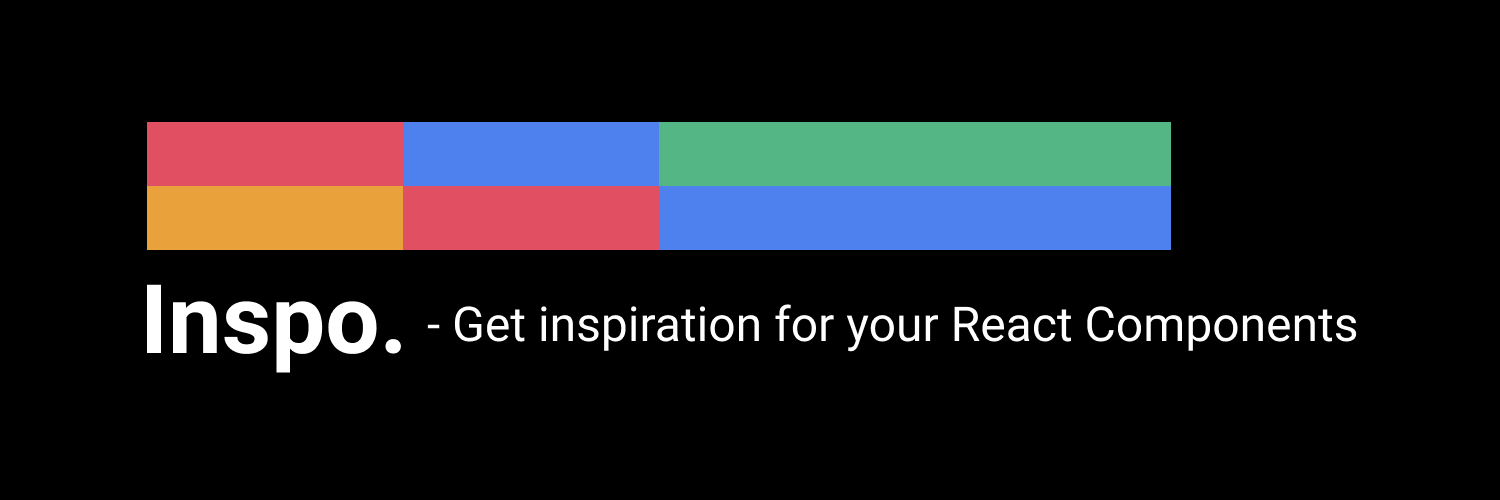
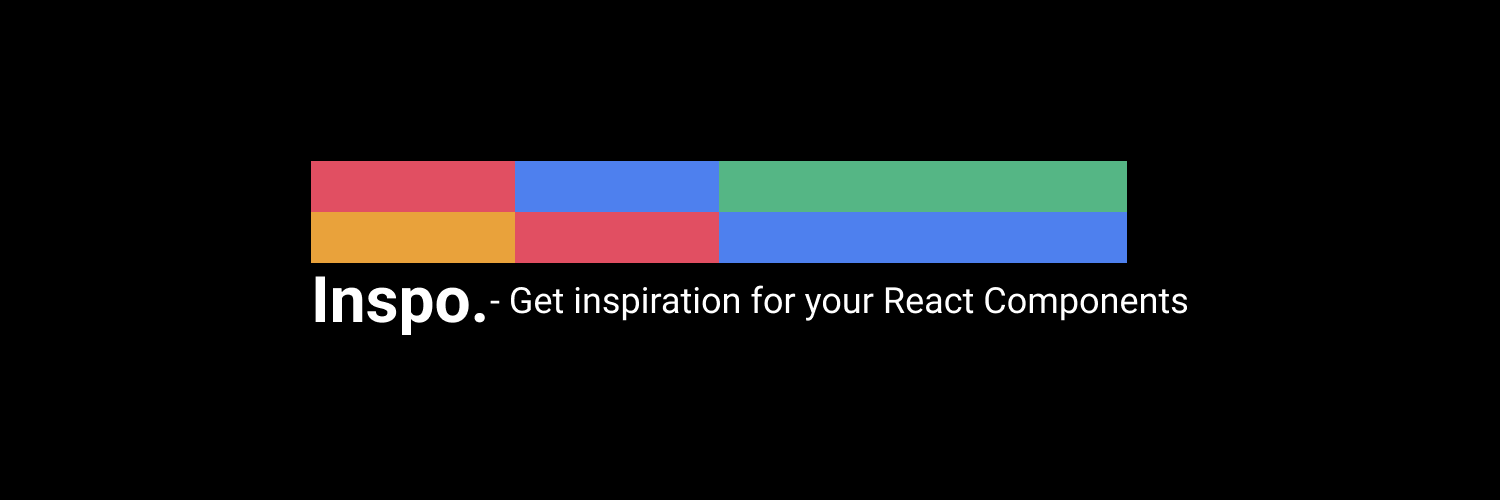
More refactoring, fixing

Changed region(s): [[0.092, 0.24, 0.7973, 0.54], [0.092, 0.57, 0.92, 0.75]]

diff --git a/components/Container/Container.tsx b/components/Container/Container.tsx
@@ -19,7 +19,7 @@ export default function Container(props) {
     description: 'Creative inspiration.',
     image: 'https://inspo.cretu.dev/static/images/Header.png',
     type: 'website',
-    ...customMeta,
+    ...customMeta
   };
 
   useEffect(() => {
@@ -34,7 +34,7 @@ export default function Container(props) {
   });
 
   return (
-    <div className='bg-white dark:bg-black min-h-screen'>
+    <div className='min-h-screen bg-white dark:bg-black'>
       <Head>
         <title>{meta.title}</title>
         <meta name='robots' content='follow, index' />
@@ -62,26 +62,26 @@ export default function Container(props) {
         )}
       </Head>
 
-      <div className='sticky-nav absolute grid w-80 md:w-112 grid-cols-3'>
+      <div className='absolute grid grid-cols-3 sticky-nav w-80 md:w-112'>
         <div>
-          <div className='w-48 md:w-96 bg-red-500 h-7'></div>
-          <div className='w-48 md:w-96 bg-yellow-500 h-6 md:h-7'></div>
+          <div className='w-48 bg-red-500 md:w-96 h-7'></div>
+          <div className='w-48 h-6 bg-yellow-500 md:w-96 md:h-7'></div>
         </div>
 
         <div>
-          <div className='w-48 md:w-96 bg-blue-500 h-7'></div>
-          <div className='w-48 md:w-96 bg-red-500 h-6 md:h-7'></div>
+          <div className='w-48 bg-blue-500 md:w-96 h-7'></div>
+          <div className='w-48 h-6 bg-red-500 md:w-96 md:h-7'></div>
         </div>
 
         <div>
-          <div className='w-48 md:w-96 bg-green-500 h-7'></div>
-          <div className='w-48 md:w-96 bg-blue-500 h-6 md:h-7'></div>
+          <div className='w-48 bg-green-500 md:w-96 h-7'></div>
+          <div className='w-48 h-6 bg-blue-500 md:w-96 md:h-7'></div>
         </div>
       </div>
-      <nav className='flex items-center sticky-nav justify-between w-full py-3 px-4 sm:px-8 md:px-16 lg:px-40 mx-auto bg-opacity-50 text-gray-900 dark:text-gray-100'>
-        <div className='flex space-x-2 text-base items-center'>
+      <nav className='flex items-center justify-between w-full px-4 py-3 mx-auto text-gray-900 bg-opacity-50 sticky-nav sm:px-8 md:px-16 lg:px-40 dark:text-gray-100'>
+        <div className='flex items-center space-x-2 text-base'>
           <Link href='/'>
-            <a className='text-lg md:text-2xl text-center font-bold tracking-tight'>
+            <a className='text-lg font-bold tracking-tight text-center md:text-2xl'>
               Inspo.
             </a>
           </Link>
@@ -94,20 +94,18 @@ export default function Container(props) {
           href='https://github.com/cristicretu/inspo'
           target='_blank'
           rel='noreferrer'
-          aria-label='Github'
-        >
+          aria-label='Github'>
           <svg
             xmlns='http://www.w3.org/2000/svg'
             width='18'
             height='18'
             viewBox='0 0 24 24'
-            className='fill-current dark:text-white dark:text-opacity-40 dark:hover:text-opacity-100 text-gray-900 text-opacity-40 hover:text-opacity-100 transition-all duration-500 '
-          >
+            className='text-gray-900 transition-all duration-500 fill-current dark:text-white dark:text-opacity-40 dark:hover:text-opacity-100 text-opacity-40 hover:text-opacity-100 '>
             <path d='M12 0c-6.626 0-12 5.373-12 12 0 5.302 3.438 9.8 8.207 11.387.599.111.793-.261.793-.577v-2.234c-3.338.726-4.033-1.416-4.033-1.416-.546-1.387-1.333-1.756-1.333-1.756-1.089-.745.083-.729.083-.729 1.205.084 1.839 1.237 1.839 1.237 1.07 1.834 2.807 1.304 3.492.997.107-.775.418-1.305.762-1.604-2.665-.305-5.467-1.334-5.467-5.931 0-1.311.469-2.381 1.236-3.221-.124-.303-.535-1.524.117-3.176 0 0 1.008-.322 3.301 1.23.957-.266 1.983-.399 3.003-.404 1.02.005 2.047.138 3.006.404 2.291-1.552 3.297-1.23 3.297-1.23.653 1.653.242 2.874.118 3.176.77.84 1.235 1.911 1.235 3.221 0 4.609-2.807 5.624-5.479 5.921.43.372.823 1.102.823 2.222v3.293c0 .319.192.694.801.576 4.765-1.589 8.199-6.086 8.199-11.386 0-6.627-5.373-12-12-12z' />
           </svg>
         </a>
       </nav>
-      <main id='skip' className='flex flex-col  justify-center px-2'>
+      <main id='skip' className='flex flex-col justify-center px-2'>
         <div className='mb-4 text-gray-800 dark:text-gray-200'>{children}</div>
         <Footer />
       </main>

diff --git a/components/NFTCard/NFTCard.tsx b/components/NFTCard/NFTCard.tsx
@@ -16,30 +16,33 @@ export default function NFTCard({
   image,
   pfp,
   timeLeft,
-  price,
+  price
 }: NFTCardProps): JSX.Element {
   return (
-    <div className='bg-gray-200 dark:bg-gray-900 p-6 rounded-xl flex flex-col space-y-6'>
-      <div className='group relative'>
-        <Image
-          src={image}
-          alt='NFT'
-          width={325}
-          height={325}
-          className='rounded-lg'
-        />
-        <button className='flex space-x-2 items-center invisible group-hover:visible transition duration-200 transform absolute top-1/2 left-1/2 px-4 py-2 fifty bg-gray-900 bg-opacity-70 cursor-pointer rounded-lg'>
+    <div className='flex flex-col p-6 space-y-6 bg-gray-200 dark:bg-gray-900 rounded-xl'>
+      <div className='relative group'>
+        <div className='h-96'>
+          <Image
+            src={image}
+            alt='NFT'
+            layout='fill'
+            className='rounded-lg'
+            objectFit='cover'
+          />
+        </div>
+        <button className='absolute flex items-center invisible px-4 py-2 space-x-2 transition duration-200 transform bg-gray-900 rounded-lg cursor-pointer group-hover:visible top-1/2 left-1/2 fifty bg-opacity-70'>
           {/* .fifty {
             transform: translate(-50%, -50%);
             -ms-transform: translate(-50%, -50%);
           } */}
+
+          {/* Star SVG */}
           <svg
             width='18'
             height='18'
             viewBox='0 0 18 18'
             fill='none'
-            xmlns='http://www.w3.org/2000/svg'
-          >
+            xmlns='http://www.w3.org/2000/svg'>
             <path
               d='M9 0L11.4308 6.56918L18 9L11.4308 11.4308L9 18L6.56918 11.4308L0 9L6.56918 6.56918L9 0Z'
               fill='#DAC50B'
@@ -62,8 +65,8 @@ export default function NFTCard({
           <p className='text-xs text-gray-500'>@{username}</p>
         </div>
       </div>
-      <div className='px-4 py-4 rounded-lg dark:bg-black bg-white flex justify-between items-center'>
-        <div className='flex space-x-2 items-center'>
+      <div className='flex items-center justify-between px-4 py-4 bg-white rounded-lg dark:bg-black'>
+        <div className='flex items-center space-x-2'>
           <svg
             xmlns='http://www.w3.org/2000/svg'
             xmlnsXlink='http://www.w3.org/1999/xlink'
@@ -72,8 +75,7 @@ export default function NFTCard({
             width='1em'
             height='1em'
             preserveAspectRatio='xMidYMid meet'
-            viewBox='0 0 24 24'
-          >
+            viewBox='0 0 24 24'>
             <path
               d='M12 1.75l-6.25 10.5L12 16l6.25-3.75L12 1.75M5.75 13.5L12 22.25l6.25-8.75L12 17.25L5.75 13.5z'
               fill='currentColor'

diff --git a/pages/index.tsx b/pages/index.tsx
@@ -7,33 +7,33 @@ export default function Home() {
     <Container>
       <div className='flex flex-col items-center justify-center py-2'>
         <div className='flex flex-col items-center'>
-          <div className='grid gap-4 grid-cols-1 md:grid-cols-2 xl:grid-cols-3 auto-rows-auto'>
+          <div className='grid grid-cols-1 gap-4 md:grid-cols-2 xl:grid-cols-3 auto-rows-auto'>
             <div className='flex flex-col space-y-4'>
               <NFTCard
                 username='cristicretu'
                 title='Origin and Evolution#4471'
-                image='/static/images/NFTCard/NFT.jpeg'
-                pfp='/static/images/NFTCard/pfp.jpg'
+                image='/static/images/NFT.png'
+                pfp='/static/images/Pfp.png'
                 timeLeft='4d 16h 32m 10s'
                 price={0.74}
               />
-              <div className='w-96 bg-blue-500 h-96 rounded-lg'></div>
-              <div className='w-96 bg-green-500 h-96 rounded-lg'></div>
+              <div className='bg-blue-500 rounded-lg w-96 h-96'></div>
+              <div className='bg-green-500 rounded-lg w-96 h-96'></div>
             </div>
 
             <div className='flex flex-col space-y-4'>
               <Account
                 description='Designer and Developer'
                 username='cristicretu'
-                pfp='/static/images/Account/pfp.jpg'
+                pfp='/static/images/Pfp.png'
               />
-              <div className='w-96 bg-yellow-500 h-96 rounded-lg'></div>
-              <div className='w-96 bg-red-500 h-96 rounded-lg'></div>
+              <div className='bg-yellow-500 rounded-lg w-96 h-96'></div>
+              <div className='bg-red-500 rounded-lg w-96 h-96'></div>
             </div>
 
             <div className='flex flex-col space-y-4'>
-              <div className='w-96 bg-green-500 h-96 rounded-lg'></div>
-              <div className='w-96 bg-yellow-500 h-96 rounded-lg'></div>
+              <div className='bg-green-500 rounded-lg w-96 h-96'></div>
+              <div className='bg-yellow-500 rounded-lg w-96 h-96'></div>
             </div>
           </div>
         </div>

diff --git a/pages/_document.tsx b/pages/_document.tsx
@@ -1,4 +1,4 @@
-import Document, { Head, Html, Main, NextScript } from "next/document";
+import Document, { Head, Html, Main, NextScript } from 'next/document';
 
 class MyDocument extends Document {
   static async getInitialProps(ctx) {
@@ -8,33 +8,33 @@ class MyDocument extends Document {
 
   render() {
     return (
-      <Html lang="en">
+      <Html lang='en'>
         <Head>
           <link
-            rel="preload"
-            href="/fonts/inter-var-latin.woff2"
-            as="font"
-            type="font/woff2"
-            crossOrigin="anonymous"
+            rel='preload'
+            href='/fonts/inter-var-latin.woff2'
+            as='font'
+            type='font/woff2'
+            crossOrigin='anonymous'
           />
-          {/* <link href="/static/favicons/site.webmanifest" rel="manifest" /> */}
-          <link href="/static/favicons/favicon.ico" rel="shortcut icon" />
-          {/* <meta
-            content="/static/favicons/browserconfig.xml"
-            name="msapplication-config"
-          /> */}
+          <link href='/static/favicons/site.webmanifest' rel='manifest' />
+          <link href='/static/favicons/favicon.ico' rel='shortcut icon' />
           <meta
-            name="theme-color"
-            content="#ffffff"
-            media="(prefers-color-scheme: light)"
+            content='/static/favicons/browserconfig.xml'
+            name='msapplication-config'
           />
           <meta
-            name="theme-color"
-            content="#171717"
-            media="(prefers-color-scheme: dark)"
+            name='theme-color'
+            content='#ffffff'
+            media='(prefers-color-scheme: light)'
+          />
+          <meta
+            name='theme-color'
+            content='#000000'
+            media='(prefers-color-scheme: dark)'
           />
         </Head>
-        <body className="bg-white dark:bg-gray-900">
+        <body className='bg-white dark:bg-black'>
           <Main />
           <NextScript />
         </body>

diff --git a/pages/404.tsx b/pages/404.tsx
@@ -1,22 +1,22 @@
+import Container from '@components/Container';
 import Link from 'next/link';
-import Container from '../components/Container';
 
 export default function NotFound() {
   return (
     <Container title='404 - Not found'>
-      <div className='my-2 sm:my-4 md:my-8 flex flex-col justify-center items-start max-w-2xl mx-auto mb-16'>
-        <h1 className='font-bold text-3xl md:text-5xl tracking-tight mb-4 text-black dark:text-white'>
+      <div className='flex flex-col items-start justify-center max-w-2xl mx-auto my-2 mb-16 sm:my-4 md:my-8'>
+        <h1 className='mb-4 text-3xl font-bold tracking-tight text-black md:text-5xl dark:text-white'>
           404 - Not Found
         </h1>
         <div className='flex flex-col space-y-12'>
-          <p className=' text-gray-600 dark:text-gray-400'>
+          <p className='text-gray-600 dark:text-gray-400'>
             Oops! Seems that you&lsquo;ve entered
             <a className='italic'> the dark side</a>. You found something that
             used to exist, or you typed something wrong. Try that URL again, or
             👇
           </p>
           <Link href='/'>
-            <a className='mx-auto px-12 py-4 font-bold text-lg rounded-md text-gray-900 bg-gray-100 dark:text-gray-100 dark:bg-gray-800'>
+            <a className='px-12 py-4 mx-auto text-lg font-bold text-gray-900 bg-gray-100 rounded-md dark:text-gray-100 dark:bg-gray-800'>
               Return home
             </a>
           </Link>

diff --git a/tailwind.config.js b/tailwind.config.js
@@ -1,15 +1,16 @@
-const { fontFamily } = require("tailwindcss/defaultTheme");
-const colors = require("tailwindcss/colors");
+/* eslint-disable @typescript-eslint/no-var-requires */
+const { fontFamily } = require('tailwindcss/defaultTheme');
+const colors = require('tailwindcss/colors');
 
 module.exports = {
-  mode: "jit",
-  purge: ["./pages/**/*.{js,ts,jsx,tsx}", "./components/**/*.{js,ts,jsx,tsx}"],
-  darkMode: "class", // or 'media' or 'class'
+  mode: 'jit',
+  purge: ['./pages/**/*.{js,ts,jsx,tsx}', './components/**/*.{js,ts,jsx,tsx}'],
+  darkMode: 'class', // or 'media' or 'class'
   theme: {
     extend: {
       colors: {
-        transparent: "transparent",
-        current: "currentColor",
+        transparent: 'transparent',
+        current: 'currentColor',
         black: colors.black,
         white: colors.white,
         gray: colors.trueGray,
@@ -19,9 +20,9 @@ module.exports = {
       },
     },
     fontFamily: {
-      sans: ["Inter", ...fontFamily.sans],
-      display: ["Inter"],
-      body: ["Inter"],
+      sans: ['Inter', ...fontFamily.sans],
+      display: ['Inter'],
+      body: ['Inter'],
     },
   },
   variants: {

diff --git a/pages/_app.tsx b/pages/_app.tsx
@@ -1,10 +1,11 @@
-import { ThemeProvider } from "next-themes";
-import "tailwindcss/tailwind.css";
-import "styles/globals.css";
+import 'tailwindcss/tailwind.css';
+import 'styles/globals.css';
+
+import { ThemeProvider } from 'next-themes';
 
 function MyApp({ Component, pageProps }) {
   return (
-    <ThemeProvider attribute="class" disableTransitionOnChange>
+    <ThemeProvider attribute='class' disableTransitionOnChange>
       <Component {...pageProps} />
     </ThemeProvider>
   );

diff --git a/.prettierrc.js b/.prettierrc.js
@@ -1,5 +1,8 @@
 module.exports = {
   arrowParens: 'always',
+  printWidth: 80,
+  trailingComma: 'none',
+  jsxBracketSameLine: true,
   singleQuote: true,
   jsxSingleQuote: true,
   tabWidth: 2,
